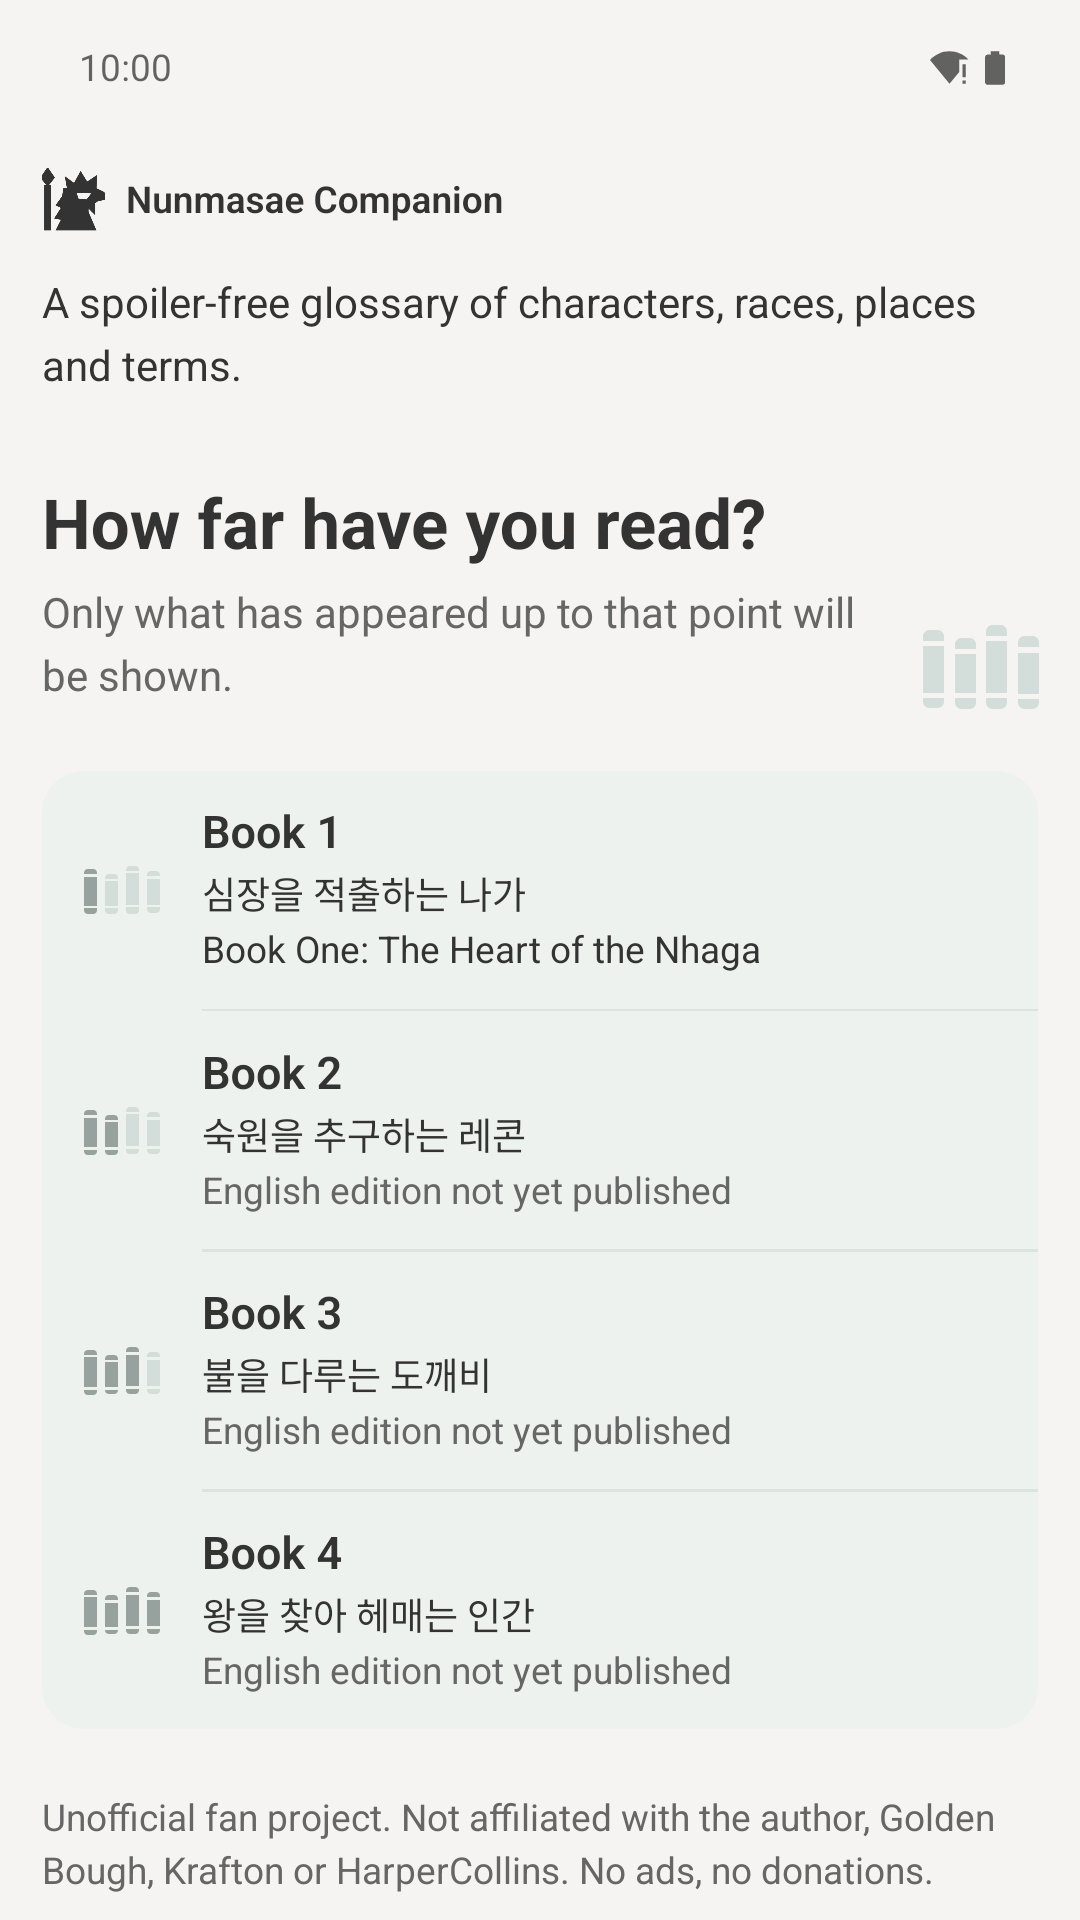
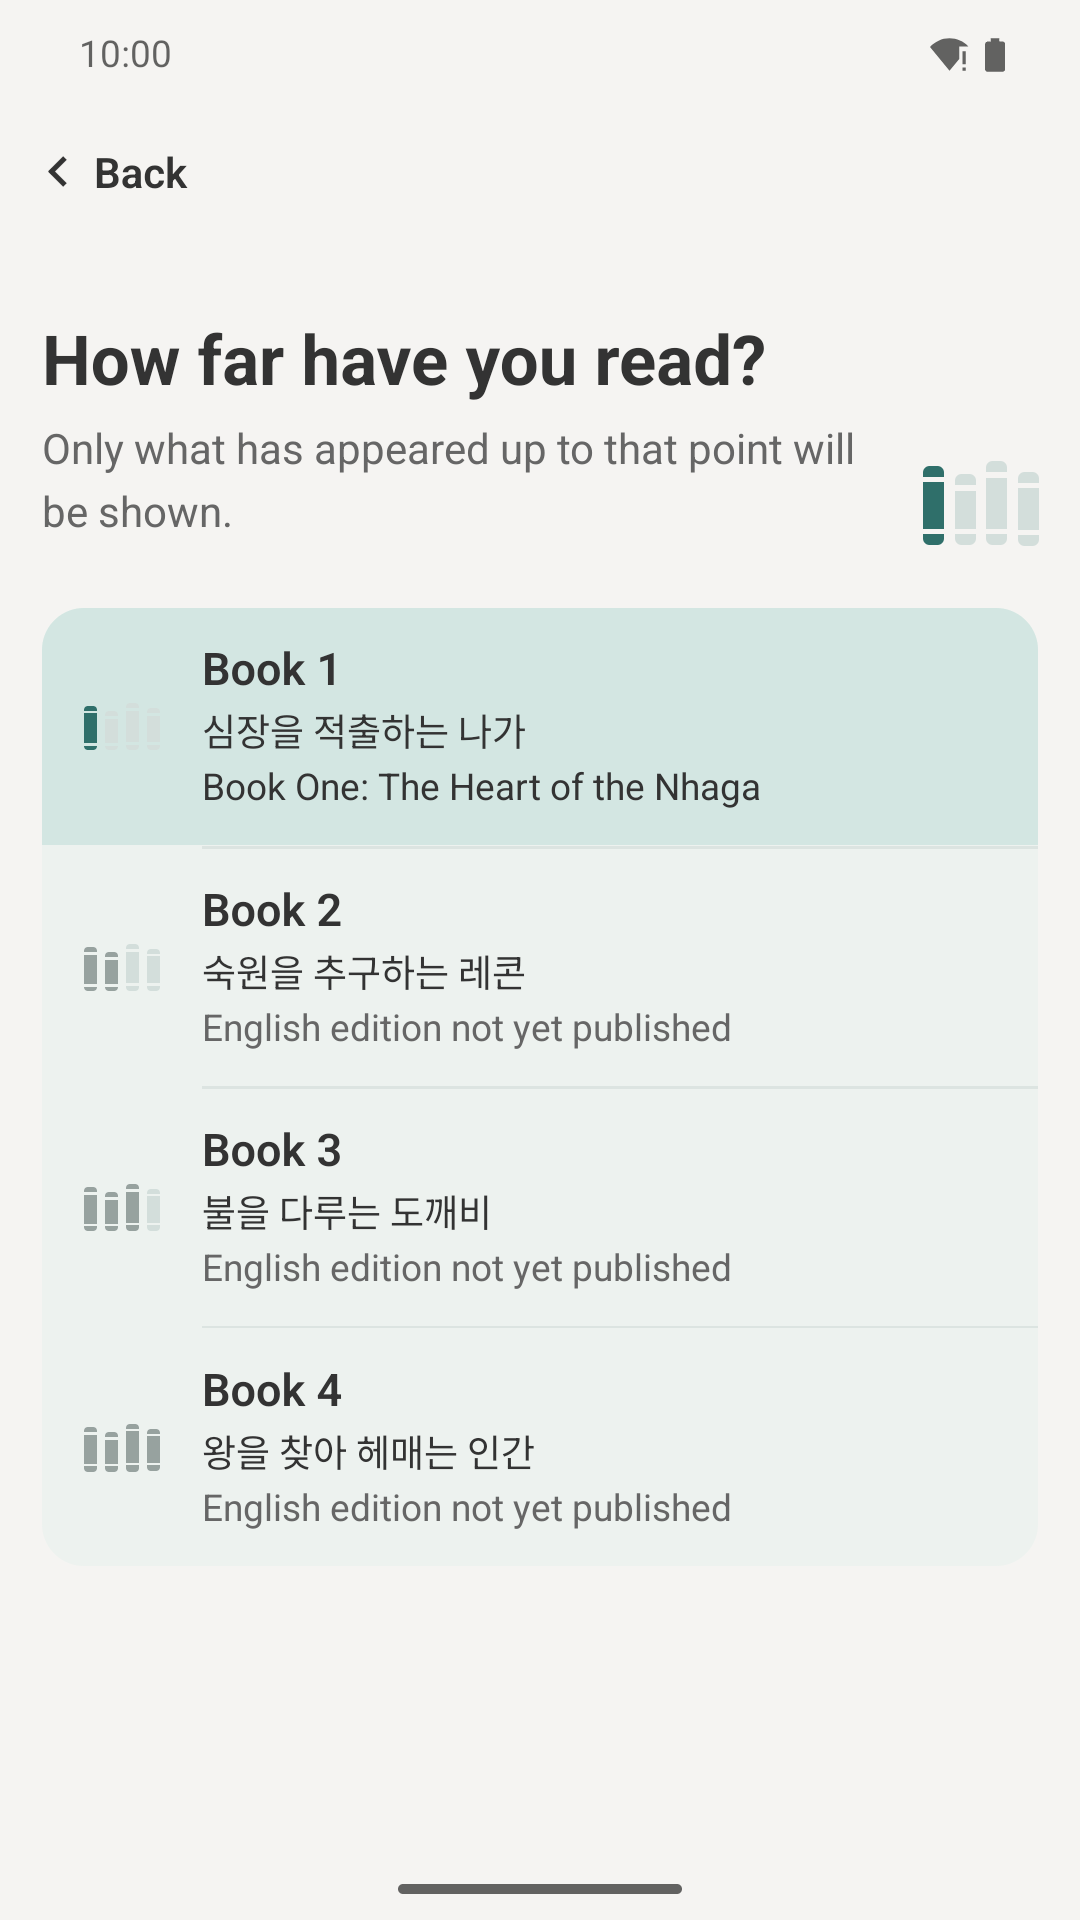
docs: 스토어 스크린샷을 vc4 화면으로 교체하고 등록정보 검증값 갱신
- en/ko 스크린샷 12장을 vc4 릴리스 빌드, 진행 1권 화면으로 교체
- 자세한 설명 글자 수/해시를 현재 파일 기준으로 다시 계산하고 입력함 상태로 표시
- 스크린샷 다시 찍는 법 절 추가

diff --git a/docs/store-listing/README.md b/docs/store-listing/README.md
@@ -9,7 +9,16 @@
 3. **번역 관리** > "직접 번역 추가" > 한국어 ko-KR 에 `ko-KR.md` 내용 붙여넣기
 4. 그래픽: `graphics/play-icon-512.png`(앱 아이콘), `graphics/feature-graphic-1024x500.png`(그래픽 이미지), 스크린샷 `graphics/en-*.png`(en-US), `graphics/ko-*.png`(ko-KR). 등록 순서는 2, 3, 1, 4, 5, 6
 
-그래픽은 `scripts/make-icons.py` 가 생성한다. 손으로 고치지 말고 스크립트를 고쳐서 다시 뽑는다.
+아이콘과 그래픽 이미지는 `scripts/make-icons.py` 가 생성한다. 손으로 고치지 말고 스크립트를 고쳐서 다시 뽑는다. 스크린샷은 아래 방법으로 실제 앱에서 찍는다.
+
+## 스크린샷 다시 찍는 법
+
+- 에뮬레이터 `microapp`에 CI AAB의 universal APK를 설치하고 `adb shell wm size 1080x1920`으로 맞춘다. 상태 표시줄은 sysui 데모 모드(시계 1000, 알림 숨김)로 둔다. 끝나면 `adb shell wm size reset`을 실행하고 데모 모드를 끝낸다(exit).
+- 앱 언어는 `cmd locale set-app-locales`로 바뀌지 않는다. 앱 설정 화면의 언어 버튼으로 바꾼다.
+- 진행은 1권으로 둔다. 뒤 권 화면은 스토어에서 스포일러가 된다.
+- 6장: 진행 선택, 인물 목록, 케이건 상세, 종족/신 탭, 다크 인물 목록, 다크 케이건 상세.
+- Console 등록 순서는 2, 3, 1, 4, 5, 6이다. 애셋 패널에 여러 장을 한 번에 올리면 순서가 섞이니 한 장씩 순서대로 올린다. 섬네일 끌어 옮기기는 왼쪽으로만 먹었다.
+- ko-KR에 자체 스크린샷이 없으면 Console이 기본 언어(en-US) 것을 흐리게 보여 준다.
 
 ## 쓰지 않는 것 (CLAUDE.md "절대 올리지 않는 것")
 
@@ -22,8 +31,8 @@
 
 | 파일 | 앱 이름 | 간단한 설명 | 자세한 설명 | 자세한 설명 SHA-256 앞 8자 | 상태 |
 |---|---|---|---|---|---|
-| `en-US` | 28 | 77 | 1397 | `95a75489` | 초안 |
-| `ko-KR` | 18 | 56 | 637 | `cb03a108` | 초안 |
+| `en-US` | 28 | 77 | 1404 | `10450911` | 입력함 (11/17, Console 값과 해시 일치 확인) |
+| `ko-KR` | 18 | 56 | 641 | `654bd4f9` | 입력함 (11/17, Console 값과 해시 일치 확인) |
 
 해시는 `## ` 헤딩으로 자른 각 구획을 `strip()` 한 문자열의 SHA-256 이다 (loan-calculator README 의 스크립트와 같다).
 
